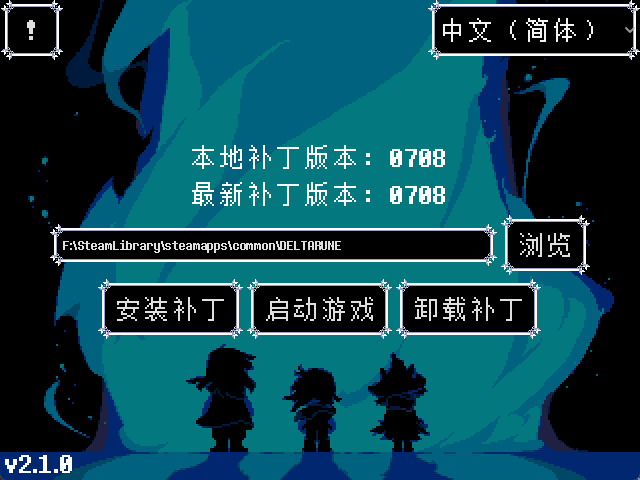
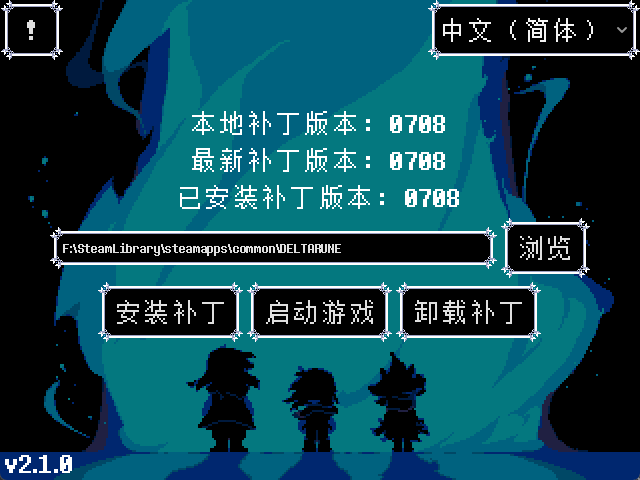
2025.7.23
fix optionbutton's arrow
update button of patch update
add installed patch version
update operation when bak detected
move UI up

diff --git a/Main.cs b/Main.cs
@@ -21,7 +21,7 @@ public partial class Main : Control
 	[Export]
 	Container nodeUpdatePatchRow = null!;
 	[Export]
-	Button nodeBtnUpdatePatch = null!;
+	OptionButton nodeBtnUpdatePatch = null!;
 	[Export]
 	ProgressBar nodeProgress = null!;
 	[Export]
@@ -47,6 +47,8 @@ public partial class Main : Control
 	Label nodeWindowPopupContent = null!;
 	[Export]
 	Window nodeWindowPatch = null!;
+	[Export]
+	Label nodeWindowPatchContent = null!;
 
 
 	static readonly string[] chapters = ["1", "2", "3", "4"];
@@ -195,6 +197,13 @@ public partial class Main : Control
 				patchreleases = json.Data.AsGodotDictionary();
 			}
 			nodeTextPatchVersion.Text = TranslationServer.Translate("locLocalVer") + TranslationServer.Translate(patchver) + "\n" + TranslationServer.Translate("locLatestVer") + patchreleases["tag_name"].AsString();
+			var gamepath = nodeEditGamePath.Text.TrimPrefix("\"").TrimSuffix("\"").TrimPrefix("\'").TrimSuffix("\'").TrimSuffix("/").TrimSuffix("\\");
+			if (gamepath != "" && FileAccess.FileExists(gamepath + "/backup/version"))
+			{
+				var ver = FileAccess.Open(gamepath + "/backup/version", FileAccess.ModeFlags.Read);
+				nodeTextPatchVersion.Text += "\n" + TranslationServer.Translate("locInstalledVer") + ver.GetAsText();
+				ver.Close();
+			}
 			if (patchver != patchreleases["tag_name"].AsString())
 			{
 				nodeUpdatePatchRow.Visible = true;
@@ -296,6 +305,16 @@ public partial class Main : Control
 		}
 		if (found)
 		{
+			if (path != "" && FileAccess.FileExists(path + "/backup/version"))
+			{
+				var ver = FileAccess.Open(path + "/backup/version", FileAccess.ModeFlags.Read);
+				nodeWindowPatchContent.Text = TranslationServer.Translate("locBakVerDetected").ToString().Replace("{VER}", ver.GetAsText());
+				ver.Close();
+			}
+			else
+			{
+				nodeWindowPatchContent.Text = "locBakDetected";
+			}
 			nodeWindowPatch.Show();
 		}
 		else
@@ -336,28 +355,26 @@ public partial class Main : Control
 			}
 		}
 	}
+	public void _on_patch_updated_pressed()
+	{
+		Patch(true);
+	}
 	public void _on_game_updated_pressed()
 	{
-		var path = nodeEditGamePath.Text.TrimPrefix("\"").TrimSuffix("\"").TrimPrefix("\'").TrimSuffix("\'").TrimSuffix("/").TrimSuffix("\\");
-		if (FileAccess.FileExists(path + "/"+dataname+".bak"))
+		Patch(false);
+	}
+	public void _on_option_button_item_selected(int selected)
+	{
+		switch (selected)
 		{
-			DirAccess.RemoveAbsolute(path + "/"+dataname+".bak");
-			GD.Print("Removed " + path + "/"+dataname+".bak");
+			case 1:
+				_on_update_patch_pressed();
+				break;
+			case 2:
+				_on_update_patch_browser_pressed();
+				nodeBtnUpdatePatch.Selected = 0;
+				break;
 		}
-		foreach (var chapter in chapters)
-		{
-			if (FileAccess.FileExists(path + "/chapter" + chapter + "_" + osname + "/"+dataname+".bak"))
-			{
-				DirAccess.RemoveAbsolute(path + "/chapter" + chapter + "_" + osname + "/"+dataname+".bak");
-				GD.Print("Removed " + path + "/chapter" + chapter + "_" + osname + "/"+dataname+".bak");
-			}
-		}
-		OS.MoveToTrash(path + "/backup");
-		nodeWindowPatch.Hide();
-		nodeWindowPopupContent.Text = "locVerifyIntegrity";
-		nodeWindowPopup.Size = new Vector2I(640,360);
-		nodeWindowPopup.Show();
-		nodeBtnPatch.Disabled = false;
 	}
 	public async void _on_update_patch_pressed()
 	{
@@ -432,7 +449,10 @@ public partial class Main : Control
 									sizee += "0";
 								}
 								nodeBtnUpdatePatch.Text = $"{progress} / {sizee} MiB";
-								GD.Print($"Downloaded: {totalRead} / {size}");
+								if (OS.IsStdOutVerbose())
+								{
+									GD.Print($"Downloaded: {totalRead} / {size}");
+								}
 							}
 							if (totalRead >= size)
 							{
@@ -479,7 +499,7 @@ public partial class Main : Control
 		}
 	}
 
-	public void Patch()
+	public void Patch(bool use_backup = true)
 	{
 		nodeWindowPatch.Hide();
 		nodeWindowLogContent.Text = "";
@@ -620,26 +640,35 @@ public partial class Main : Control
 		output.Add("Sha256 check all passed.");
 		GD.Print("Extracting...");
 		output.Add("Extracting...");
-		//恢复备份
-		if (DirAccess.DirExistsAbsolute(path + "/backup"))
+		if (use_backup)
 		{
-			output += RestoreData(path);
-		}
-		//兼容v2.1.0以前版本的bak备份
-		if (FileAccess.FileExists(path + "/" + dataname + ".bak"))
-		{
-			DirAccess.RenameAbsolute(path + "/" + dataname + ".bak", path + "/" + dataname);
-			GD.Print("Renamed " + path + "/" + dataname + ".bak to " + path + "/" + dataname);
-			output.Add("Renamed " + path + "/" + dataname + ".bak to " + path + "/" + dataname);
-		}
-		foreach (var chapter in chapters)
-		{
-			if (FileAccess.FileExists(path + "/chapter" + chapter + "_" + osname + "/" + dataname + ".bak"))
+			//恢复备份
+			if (DirAccess.DirExistsAbsolute(path + "/backup"))
 			{
-				DirAccess.RenameAbsolute(path + "/chapter" + chapter + "_" + osname + "/" + dataname + ".bak", path + "/chapter" + chapter + "_" + osname + "/" + dataname);
-				GD.Print("Renamed " + path + "/chapter" + chapter + "_" + osname + "/" + dataname + ".bak to " + path + "/chapter" + chapter + "_" + osname + "/" + dataname);
-				output.Add("Renamed " + path + "/chapter" + chapter + "_" + osname + "/" + dataname + ".bak to " + path + "/chapter" + chapter + "_" + osname + "/" + dataname);
+				output += RestoreData(path);
 			}
+			//兼容v2.1.0以前版本的bak备份
+			if (FileAccess.FileExists(path + "/" + dataname + ".bak"))
+			{
+				DirAccess.RenameAbsolute(path + "/" + dataname + ".bak", path + "/" + dataname);
+				GD.Print("Renamed " + path + "/" + dataname + ".bak to " + path + "/" + dataname);
+				output.Add("Renamed " + path + "/" + dataname + ".bak to " + path + "/" + dataname);
+			}
+			foreach (var chapter in chapters)
+			{
+				if (FileAccess.FileExists(path + "/chapter" + chapter + "_" + osname + "/" + dataname + ".bak"))
+				{
+					DirAccess.RenameAbsolute(path + "/chapter" + chapter + "_" + osname + "/" + dataname + ".bak", path + "/chapter" + chapter + "_" + osname + "/" + dataname);
+					GD.Print("Renamed " + path + "/chapter" + chapter + "_" + osname + "/" + dataname + ".bak to " + path + "/chapter" + chapter + "_" + osname + "/" + dataname);
+					output.Add("Renamed " + path + "/chapter" + chapter + "_" + osname + "/" + dataname + ".bak to " + path + "/chapter" + chapter + "_" + osname + "/" + dataname);
+				}
+			}
+		}
+		else
+		{
+			OS.MoveToTrash(path + "/backup");
+			GD.Print("Removed " + path + "/backup");
+			output.Add("Removed " + path + "/backup");
 		}
 		//解压
 		OS.Execute(_7zip, ["x", patchdir, "-o" + GetGameDirPath("ExtractTemp/"), "-aoa", "-y"], outputtemp, true, true);
@@ -651,6 +680,9 @@ public partial class Main : Control
 		output += outputtemp;
 		output += MoveAfterExtracted(GetGameDirPath("ExtractTemp"), "", path);
 		OS.MoveToTrash(GetGameDirPath("ExtractTemp/"));
+		var ver = FileAccess.Open(path + "/backup/version", FileAccess.ModeFlags.Write);
+		ver.StoreString(patchver);
+		ver.Close();
 		//备份data
 		if (FileAccess.FileExists(path + "/" + dataname))
 		{
@@ -808,13 +840,20 @@ public partial class Main : Control
 	internal static Godot.Collections.Array RestoreData(string path)
 	{
 		Godot.Collections.Array output = [];
-		if (DirAccess.DirExistsAbsolute(path + "/backup"))
+		if (path != "")
 		{
-			output += RestoreFolder(path + "/backup" , path);
+			if (FileAccess.FileExists(path + "/backup/version"))
+			{
+				DirAccess.RemoveAbsolute(path + "/backup/version");
+			}
+			if (DirAccess.DirExistsAbsolute(path + "/backup"))
+			{
+				output += RestoreFolder(path + "/backup" , path);
+			}
+			OS.MoveToTrash(path + "/backup");
+			GD.Print("Removed " + path + "/backup");
+			output.Add("Removed " + path + "/backup");
 		}
-		OS.MoveToTrash(path + "/backup");
-		GD.Print("Removed " + path + "/backup");
-		output.Add("Removed " + path + "/backup");
 		return output;
 	}
 	internal static Godot.Collections.Array RestoreFolder(string path, string target)
